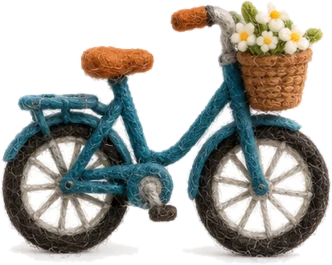
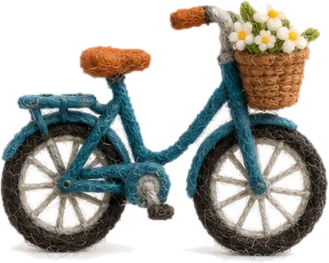
Blend the felt pieces into the landscape: per-scene colour grade and shadow side, contact shadows, foreground grass over building bases, stringless soft sky, night lamplight, tighter cut-out edges

diff --git a/static/style.css b/static/style.css
@@ -833,7 +833,7 @@ body.study .page { padding-bottom: 120px; }
 /* the landscape photo is sized so its cream path (at --p of its height) runs under the buildings, 50px up */
 .town.photo { container-type: inline-size; background: #b9cfd9; }
 .bg-photo { --w: max(100cqw + 40px, 980px); position: absolute; left: 50%; width: var(--w); height: auto; max-width: none;
-  bottom: calc(50px - (1 - var(--p)) * var(--w) * .6667); transform: translateX(calc(-50% + var(--px) * -10px)); transition: transform .6s, filter .8s; }
+  bottom: calc(var(--base, 50px) - (1 - var(--p)) * var(--w) * .6667); transform: translateX(calc(-50% + var(--px) * -10px)); transition: transform .6s, filter .8s; }
 .town.night .bg-photo { filter: brightness(.42) saturate(.7) hue-rotate(15deg); }
 .town.night.native .bg-photo { filter: none; }
 .town.photo .sky::after { content: ""; position: absolute; inset: auto 0 0; height: 46%; pointer-events: none;
@@ -884,3 +884,37 @@ body.study .page { padding-bottom: 120px; }
 .lu-scene { display: block; width: calc(100% + 48px); max-width: none; margin: -24px -24px 0; aspect-ratio: 3 / 2; object-fit: cover; border-bottom: 2px solid var(--ink); }
 .lu-scene:not([hidden]) + .lu-emoji { position: relative; margin-top: -58px; }
 .slide.intro h1, .slide.intro p { text-shadow: 0 3px 16px rgba(30, 20, 10, .55); }
+
+/* blending the felt pieces into the landscape photo:
+   1. each scene has its own light: a colour grade (--grade) and shadow side (--shx) for everything standing in it
+   2. a soft contact shadow where each building and prop meets the path
+   3. the bottom strip of the same photo laid back over the building bases, so they stand in the wool, not on top of it
+   4. no strings in the sky, softer clouds */
+.town.photo { --grade: sepia(.1) saturate(1.04); --shx: 9px; --shc: rgba(52, 40, 22, .5); }
+.town.photo.background-autumn { --grade: sepia(.2) saturate(1.12) brightness(.98); }
+.town.photo.background-spring { --grade: sepia(.06) brightness(1.03); --shc: rgba(50, 50, 30, .42); }
+.town.photo.background-winter { --grade: saturate(.82) brightness(1.04) hue-rotate(4deg); --shc: rgba(50, 60, 80, .4); }
+.town.photo.background-sunset { --grade: sepia(.38) saturate(1.3) hue-rotate(-10deg) brightness(.9) contrast(1.04); --shx: -12px; --shc: rgba(70, 30, 20, .55); }
+.town.photo.night { --grade: none; --shc: rgba(10, 14, 30, .6); }
+.town.photo .lot-b, .town.photo .prop { position: relative; z-index: 1; }
+.town.photo .lot-b > *, .town.photo .prop > .pic, .town.photo .mailbox .pic, .town.photo .mobile .pic { filter: var(--grade); }
+.town.photo .ibld { filter: var(--grade) drop-shadow(var(--shx) 5px 7px var(--shc)); }
+.town.night.photo .ibld { filter: drop-shadow(var(--shx) 5px 7px var(--shc)); }
+.town.photo .lot-b::after, .town.photo .prop::after { content: ""; position: absolute; z-index: -1; left: -4%; right: -4%; bottom: -7px; height: 22px; pointer-events: none;
+  transform: translateX(calc(var(--shx) * .8)); background: radial-gradient(closest-side, var(--shc), transparent); }
+.town.photo .prop.lamp::after { left: -60%; right: -60%; height: 10px; bottom: -4px; }
+.fg { position: absolute; inset: 0; z-index: 2; pointer-events: none; overflow: hidden;
+  --m: linear-gradient(to top, #000 0, #000 calc(var(--base, 50px) - 10px), transparent calc(var(--base, 50px) + 8px)); -webkit-mask-image: var(--m); mask-image: var(--m); }
+.town.photo .lot-name, .town.photo .lot-sign, .town.photo .welcome { z-index: 3; }
+.town.photo .welcome { position: relative; }
+.town.photo .hang .thread { opacity: 0; }
+.town.photo .cloud-h { zoom: .78; }
+.town.photo .cloud .pic { filter: var(--grade) blur(.6px) drop-shadow(0 8px 10px rgba(60, 50, 40, .15)); opacity: .94; }
+.town.photo .sun-h { zoom: .72; }
+.town.photo .sun::before { inset: -26px; opacity: .7; }
+@media (max-width: 760px) { .town.photo { --base: 34px; } .town.photo .cloud-h { zoom: .5; } .town.photo .sun-h { zoom: .55; } }
+.town.photo.background-sunset .cloud .pic { filter: var(--grade) sepia(.3) saturate(1.4) blur(.6px); }
+/* at night, warm lamplight pools on the path in front of each door */
+.town.night.photo .lot-b::before { content: ""; position: absolute; z-index: 1; left: 20%; right: 20%; bottom: -10px; height: 30px; pointer-events: none;
+  background: radial-gradient(closest-side, rgba(255, 196, 102, .55), transparent); mix-blend-mode: screen; }
+.town.night.photo .ibld img { filter: brightness(.6) saturate(.8) sepia(.12); }

diff --git a/static/app.js b/static/app.js
@@ -1113,7 +1113,7 @@ function renderTown(opts = {}) {
   localStorage.setItem("ff-town", JSON.stringify(seen));
 
   const pop = 1 + (S.profile.cast?.length || 0), bg = townBackdrop(), BGP = !!bg;
-  $("town").className = `town ${night ? "night" : ""} ${BGP ? "photo" : ""} ${bg?.native ? "native" : ""}`;
+  $("town").className = `town ${night ? "night" : ""} ${BGP ? `photo ${bg.name.replace("_", "-")}` : ""} ${bg?.native ? "native" : ""}`;
   $("town").innerHTML = `
     ${DEFS}
     <div class="sky">${BGP ? `<img class="bg-photo" style="--p:${bg.p}" src="${artUrl(`${bg.name}.jpg`)}" alt="">` : SKY}${night && !bg?.native ? `<span class="stars"></span>` : ""}</div>
@@ -1123,7 +1123,7 @@ function renderTown(opts = {}) {
         : `<span class="hang balloon-h" style="--x:76%; --len:46px; --t:7s"><i class="thread"></i><button class="balloon" aria-label="A felt balloon">${BALLOON}</button></span>`}
       <span class="hang sun-h" style="--x:89%; --len:26px; --t:6.5s"><i class="thread"></i><button class="sun" id="sun" aria-label="Day or night" title="${night ? "Back to day" : "See your town at night"}">${SUN[night ? 1 : 0]}</button></span>
     </div>
-    ${BGP ? "" : `<div class="hills">${HILLS}</div>`}
+    ${BGP ? `<div class="fg" aria-hidden="true"><img class="bg-photo" style="--p:${bg.p}" src="${artUrl(`${bg.name}.jpg`)}" alt=""></div>` : `<div class="hills">${HILLS}</div>`}
     <div class="street-scroll"><div class="street">
       <svg class="ground" ${BGP ? "hidden" : ""} width="100%" height="64" aria-hidden="true"><g filter="url(#feltbig)"><rect class="g-road" x="-20" y="0" width="120%" height="80"/>
         <rect class="g-walk" x="-20" y="5" width="120%" height="15" rx="7"/></g>

diff --git a/scripts/slice_art.py b/scripts/slice_art.py
@@ -23,7 +23,7 @@ PROPS = {"scenery": ["tree_yellow", "tree_orange", "tree_green", "cloud_1", "clo
          "scenery2": ["lamp", "bench", "mailbox", "fence", "bike", "tulips", "cat", "sheep", "balloon"]}
 
 
-def cut_out(img, thresh=38):
+def cut_out(img, thresh=38, erode=5):
     """RGBA with the background transparent (a lower thresh keeps white wool, e.g. clouds)."""
     img = img.convert("RGBA")
     a = np.array(img)
@@ -38,7 +38,7 @@ def cut_out(img, thresh=38):
             ImageDraw.floodfill(rgb, s, KEY, thresh=thresh)
     mask = np.all(np.array(rgb) == KEY, axis=-1)
     alpha = Image.fromarray(np.where(mask, 0, 255).astype("uint8"))
-    alpha = alpha.filter(ImageFilter.MinFilter(3)).filter(ImageFilter.GaussianBlur(0.8))  # trim the white halo
+    alpha = alpha.filter(ImageFilter.MinFilter(erode)).filter(ImageFilter.GaussianBlur(0.8))  # trim the white halo
     img.putalpha(alpha)
     return img
 
@@ -128,7 +128,7 @@ def main():
         for p, role in zip((found[i] for i in keep), ("roof", "floor", "ground")):
             save(p, f"{kind}_{role}", 420)
     for f in sorted(RAW.glob("scenery*.png")):  # scenery.png -> scenery_0.., scenery2.png -> scenery2_0..
-        parts = pieces(cut_out(Image.open(f), thresh=14 if f.stem == "scenery" else 38))  # white clouds need the gentle cut
+        parts = pieces(cut_out(Image.open(f), *((14, 3) if f.stem == "scenery" else (38, 5))))  # white clouds need the gentle cut
         names = PROPS.get(f.stem, [])
         print(f"{f.stem}: {len(parts)} pieces" + ("" if len(parts) == len(names) else " (unexpected count: numbered instead of named)"))
         for i, p in enumerate(parts):
